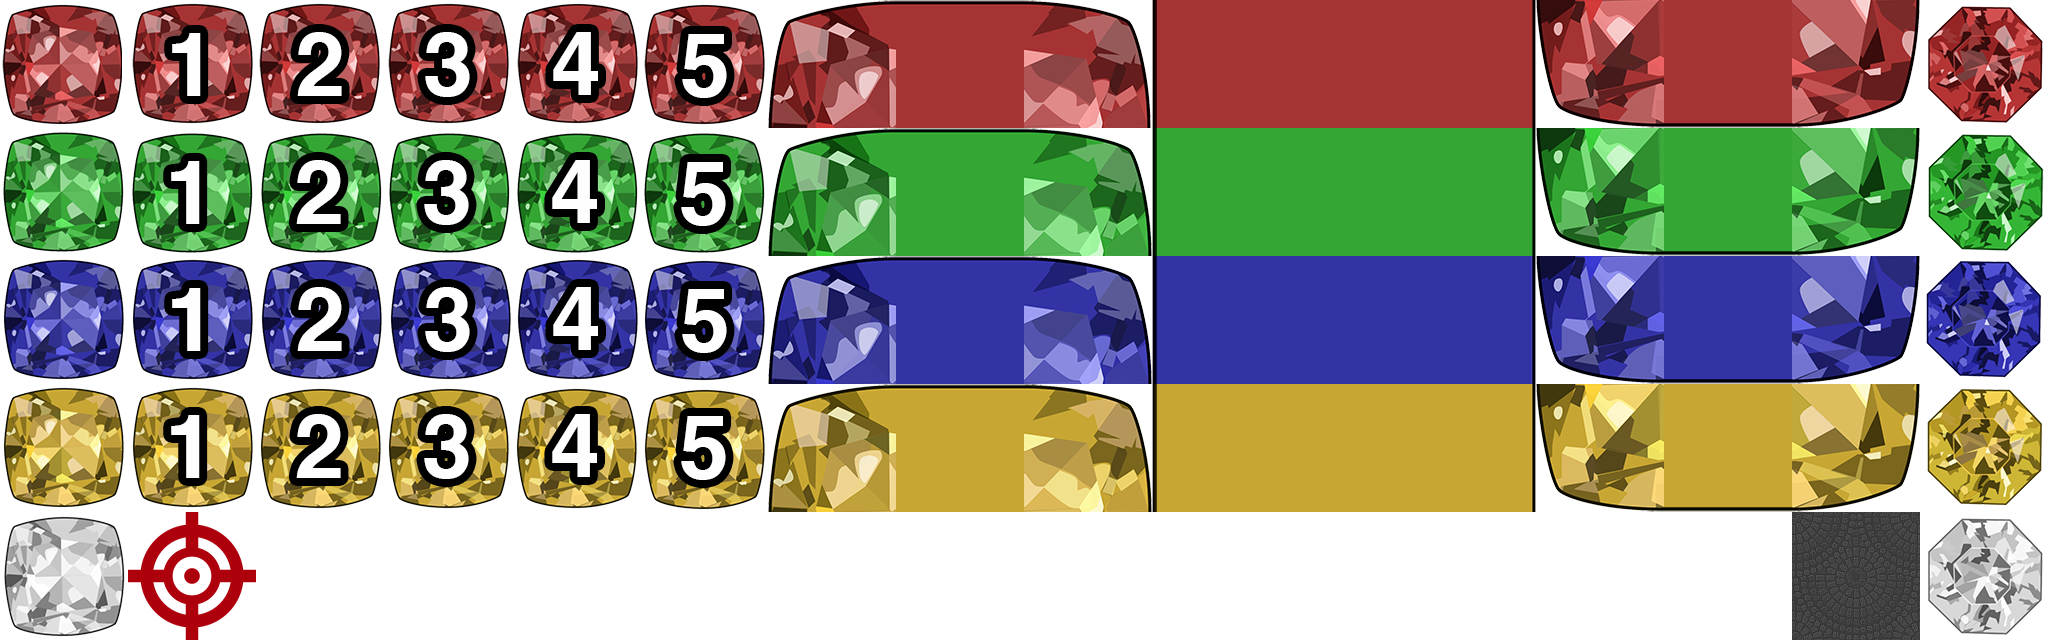
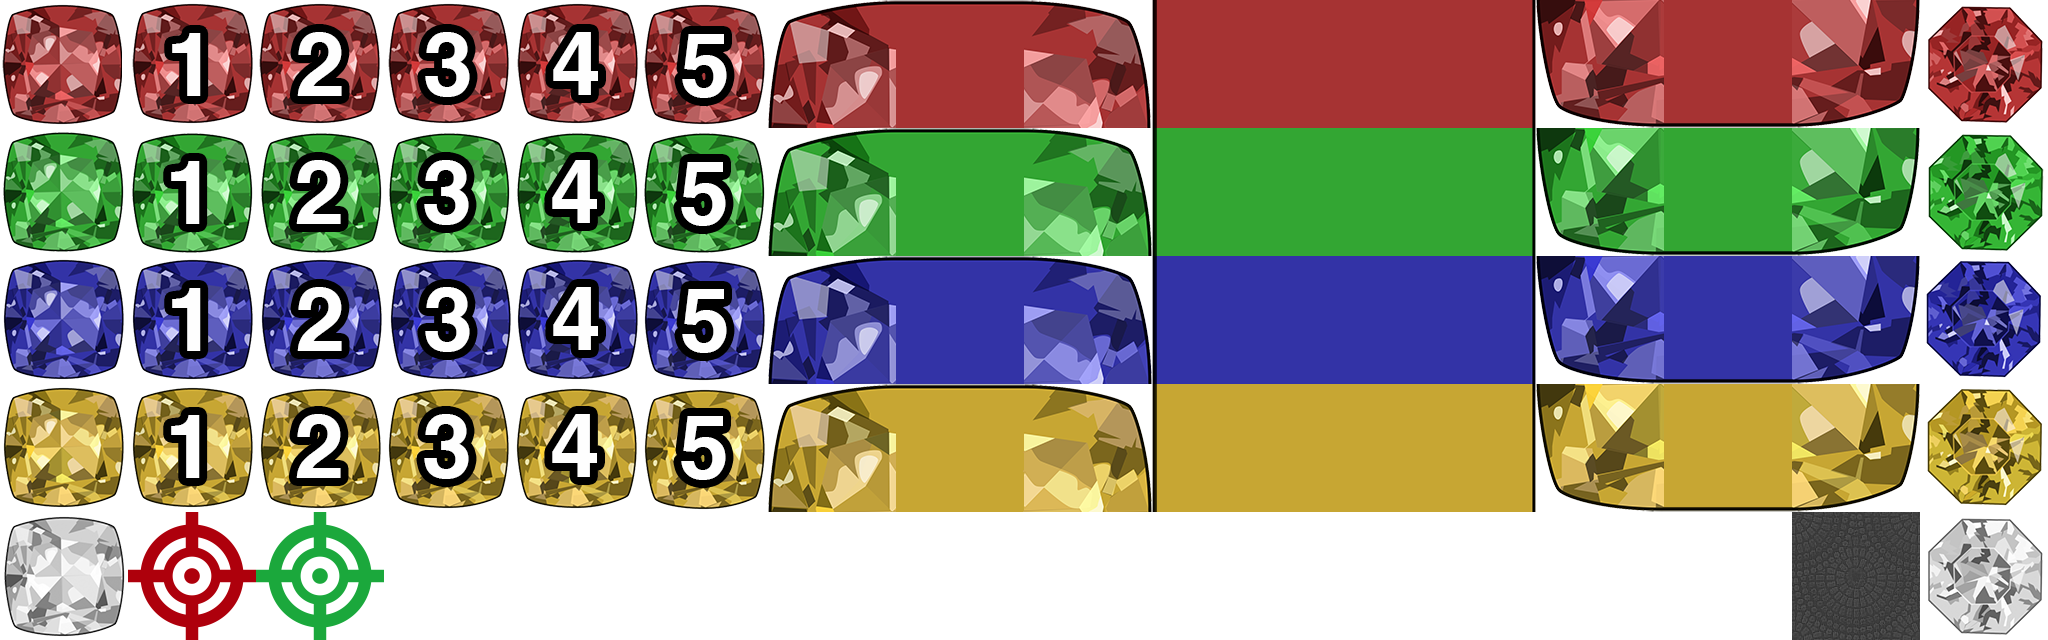
Team support, new test scenarios.

Changed region(s): [[0.125, 0.8125, 0.1875, 1.0]]

diff --git a/app/assets/javascripts/playmat/PlaymatLabels.js b/app/assets/javascripts/playmat/PlaymatLabels.js
@@ -3,16 +3,32 @@
 define([], function () {
   'use strict';
 
-  var style = { font: '64px Helvetica Neue, Helvetica, Arial, sans-serif', fill: '#fff' };
+  var scoreStyle = { font: '64px Helvetica Neue, Helvetica, Arial, sans-serif', fill: '#fff' };
+  var selfStyle = { font: '64px Helvetica Neue, Helvetica, Arial, sans-serif', fill: '#fff' };
+  var friendStyle = { font: '64px Helvetica Neue, Helvetica, Arial, sans-serif', fill: '#0f0' };
+  var enemyStyle = { font: '64px Helvetica Neue, Helvetica, Arial, sans-serif', fill: '#f00' };
 
-  var PlaymatLabels = function(playmat, name, score) {
+  var PlaymatLabels = function(playmat, playerId, name, score) {
     this.playmat = playmat;
+
+    var style;
+    if(playmat.self === playerId) {
+      style = selfStyle;
+    } else {
+      var selfTeam = playmat.players[playmat.self].team;
+      var targetTeam = playmat.players[playerId].team;
+      if(selfTeam === targetTeam) {
+        style = friendStyle;
+      } else {
+        style = enemyStyle;
+      }
+    }
 
     this.nameLabel = new Phaser.Text(playmat.game, 0, 0, name, style);
     this.nameLabel.name = 'name-label-' + name;
     playmat.add(this.nameLabel);
 
-    this.scoreLabel = new Phaser.Text(playmat.game, 0, 0, score, style);
+    this.scoreLabel = new Phaser.Text(playmat.game, 0, 0, score, scoreStyle);
     this.scoreLabel.name = 'score-label-' + name;
     this.scoreLabel.anchor.set(1, 0);
     playmat.add(this.scoreLabel);

diff --git a/app/assets/javascripts/playmat/PlaymatTargets.js b/app/assets/javascripts/playmat/PlaymatTargets.js
@@ -61,14 +61,25 @@ define([], function () {
   };
 
   PlaymatTargets.prototype.setTarget = function(src, tgt) {
-    var player = this.playmat.players[src];
+    var playmat = this.playmat;
+    var player = playmat.players[src];
     if(player.target !== tgt) {
       player.target = tgt;
-      if(this.playmat.self === src) {
-        var targetBoard = this.playmat.players[tgt].board;
+      if(playmat.self === src) {
+        var targetBoard = playmat.players[tgt].board;
+        var sprite = this.sprite;
 
-        var tween = this.playmat.game.add.tween(this.sprite);
+        var tween = this.playmat.game.add.tween(sprite);
         tween.to({ x: targetBoard.x, y: targetBoard.y }, 200, Phaser.Easing.Cubic.Out);
+        tween.onComplete.add(function() {
+          var selfTeam = playmat.players[playmat.self].team;
+          var targetTeam = playmat.players[tgt].team;
+          if(selfTeam === targetTeam) {
+            sprite.loadTexture('gems', 66);
+          } else {
+            sprite.loadTexture('gems', 65);
+          }
+        });
         tween.start();
       }
     }

diff --git a/app/assets/javascripts/dialog/Modal.js b/app/assets/javascripts/dialog/Modal.js
@@ -9,12 +9,16 @@ define([], function() {
   var bodyElement = document.getElementById('modal-body');
 
   var Modal = {
-    show: function(title, body) {
+    show: function(title, body, preformatted) {
       contentElement.style.marginTop = (window.innerHeight / 2 - 200) + 'px';
       contentElement.style.marginLeft = (window.innerWidth / 2 - 200) + 'px';
 
       titleElement.innerText = title;
-      bodyElement.innerText = body;
+      if(preformatted) {
+        bodyElement.innerHTML = '<pre>' + body + '</pre>';
+      } else {
+        bodyElement.innerText = body;
+      }
       bodyElement.scrollTop = 0;
 
       modalElement.className = 'on';

diff --git a/app/assets/javascripts/playmat/Playmat.js b/app/assets/javascripts/playmat/Playmat.js
@@ -44,11 +44,15 @@ define([
       playmat.players[p.id] = {
         id: p.id,
         name: p.name,
+        team: p.team,
         score: score,
         board: board,
-        target: p.target,
-        labels: new PlaymatLabels(playmat, p.name, score)
+        target: p.target
       };
+    });
+
+    _.each(playmat.players, function(p) {
+      p.labels = new PlaymatLabels(playmat, p.id, p.name, p.score);
     });
 
     playmat.otherPlayers = _.filter(playmat.players, function(p) {

diff --git a/app/assets/javascripts/state/Testbed.js b/app/assets/javascripts/state/Testbed.js
@@ -38,6 +38,9 @@ define(['dialog/Modal', 'state/GameState', 'utils/BrawlSync'], function (Modal, 
           throw 'Unhandled debug response [' + v.key + '].';
         }
         break;
+      case 'BrawlCompletionReport':
+        Modal.show('Game Complete', JSON.stringify(v, null, 2), true);
+        break;
       case 'ServerError':
         Modal.show('Server Error', v.reason + ': ' + v.content);
         break;
